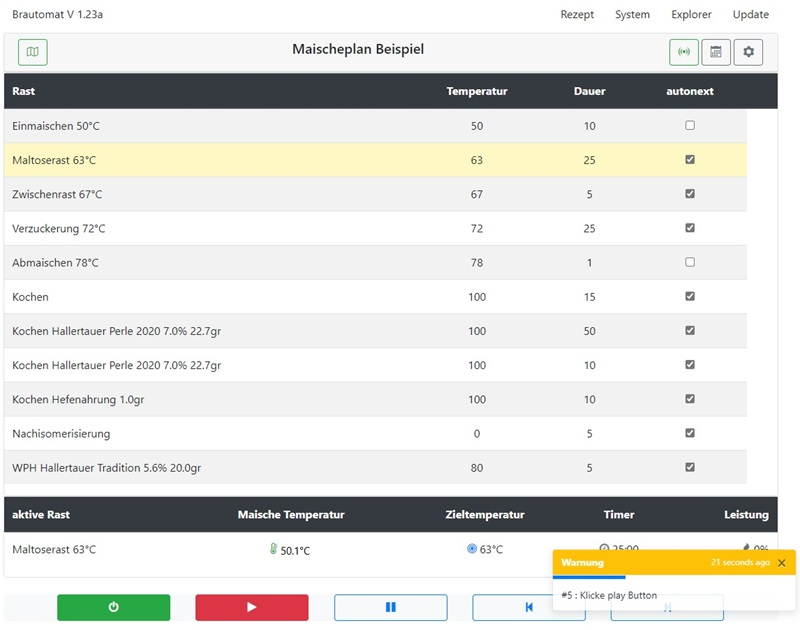
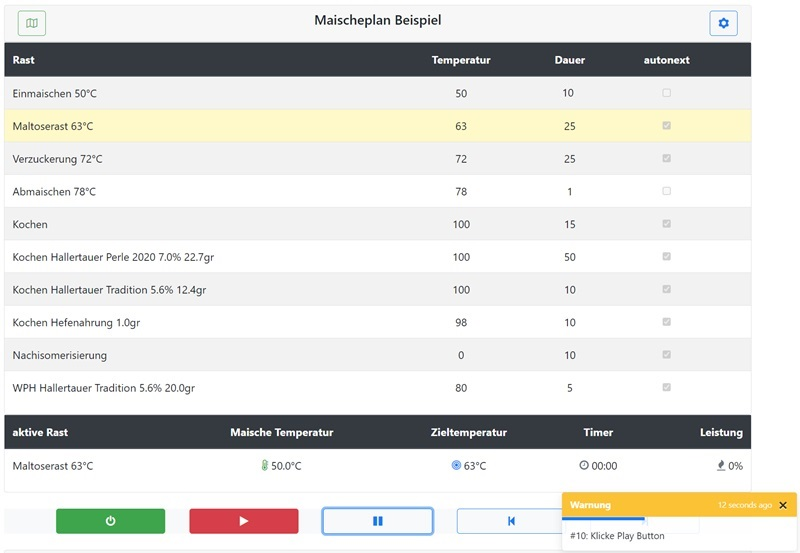
V 1.35

diff --git a/docs/de/Maischeplan/funktionen.md b/docs/de/Maischeplan/funktionen.md
@@ -15,6 +15,8 @@ Zur Orientierung wird zunächst der Aufbau der Tabellenzeilen beschrieben. Eine 
 
 Nach diesen vier Angaben zum Maische-Schritt hat jede Zeile Buttons zum Editieren mit den folgenden Funktionen: (von links nach rechts)
 
+![Maischeplan editieren](/docs/img/brautomat-111.jpg)
+
 * verschiebe diese Zeile eine Position nach oben
 * verschiebe diese Zeile eine Position nach unten
 * editiere diese Zeile
@@ -22,14 +24,18 @@ Nach diesen vier Angaben zum Maische-Schritt hat jede Zeile Buttons zum Editiere
 
 Im Tabellenkopf befinden sich folgende Buttons (von links nach rechts)
 
+![Maischeplan editieren](/docs/img/brautomat-1.jpg)
+
 * neue Zeile: füge einen neuen Maischeschritt an das Ende der Tabelle an
 * Löschen: lösche die gesammte Tabelle (leerer Maischeplan)
 * Neu laden und Exit: dieser Button hat zwei Funktionen
   * Reload: lese das Rezept aus der Datei neu. Änderungen werden nicht gespeichert
   * Exit: verlassen den Editor ohne Speichern
 * Speicher: Maischeplan speichern
-* Einstellungen: Maischeplan Auswahl, IMport, Export und Zeitplaner
-* Collapse: Tabelle ein/ausklappen
+* Database: Maischeplan Auswahl, Import, Export und Maischeplan Zeitplaner
+* Collapse: Maischeplan Tabelle ein- und ausklappen
+
+![Maischeplan editieren](/docs/img/brautomat-11.jpg)
 
 Alle Buttons zum Editieren des Maischeplans werden ausgeblendet, sobald der Brauprozess gestartet wird. Der Collapse-Button zum ein- und ausklappen der Tabelle wird ausgeblendet, sobald der Maischeplan editiert wird.\
 Zusammen mit den Steuerelementen Power, Play, Pause, Prev und Next ergibt sich eine intuitiv zu bedienende Brausteuerung. Der hier dargestellte Maischeplan ist ein Import aus dem kleinenBrauhelfer2. Der Import fügt automatisch die Rasttemperaturen und Rastdauer ein. Bei den Hopfengaben werden automatisch Alphasäure und Menge in Gramm an den Hopfennamen angefügt. Außerdem werden diese Kurzbezeichnungen vorangestellt:
@@ -58,47 +64,50 @@ Die Buttons zum Editieren werden ausgeblendet. Um diese wieder sichtbar zu mache
 
 Wenn der Maischeprozess pausiert ist, wird der Button Pause in der Steuerung rot dargestellt und die Funktionen zum Editieren werden eingelendet. Das Induktionskochfeld wird nicht ausgeschaltet. Es wird weiterhin die Rasttemperatur gehalten. Der Rasttimer wird angehalten.
 
-Anwendungsbeispiel: gegen Ende der 2. Verzuckerung wird über eine Jodprobe festgestellt, dass die Maische noch nicht jodnormal ist und noch Stärke vorhanden ist. Die oben beschriebene Funktion sehr nützlich:
+Anwendungsbeispiel:\
+Am Ende vom Maischeprozess wird über eine Jodprobe festgestellt, dass die Maische noch nicht jodnormal ist und noch Stärke vorhanden ist. Die Rast Verzuckerung 72°C soll verlängert werden:
 
 * Maischeprozess pausieren
-* Rastdauer der 2. Verzuckerung um 5 Minuten vergrößern
-* Maischeprozess fortsetzen
+* Das Stiftsymbbol in der Zeite Verzuckerung 72°C anklicken
+* Rastdauer der 2. Verzuckerung um 5 Minuten verlängern
+* Speichern
+* Pause Button klicken und der Maischeprozess wird mit angepasster Verzuckerung fortgesetzt
 
 ## Funktion und Verwendung von autonext
 
-![Maischeplan](/docs/img/Maischeplan-autonext.jpg)
+![Maischeplan autonext](/docs/img/Maischeplan-autonext.jpg)
 
-Der erste Schritt im Maischeplan mit dem Namen _Einmaischen 50°C_ hat eine Rastdauer von 10 Minuten und ein deaktiviertes _autonext_. Ein deaktiviertes _autonext_ hat folgende Bedeutung: im Bild dargestellt ist die Situation, wenn der Rasttimer die 10 Minuten erreicht hat. Der Play Button wechselt automatisch auf rot. Unten rechts erscheint eine Toast Nachricht "Klicke play Button". Das Induktionskochfeld wird ausgeschaltet. Der Brauprozess wartet auf einen Klick auf den Button Play.
-Der zweite Schritt im Maischeplan mit dem Namen _Maltoserast 63°C_ hat als Rast-Temperatur 63°C und eine Rast-Dauer von 25 Minuten. Der Brautomat steuert in diesem Schritt das Induktionskochfeld zunächst auf 63°C. Sobald diese 63°C erreicht sind, startet der Brautomat den Timer. Ein Rast-Timer ist eine Stoppuhr. Wenn diese Stoppuhr die Rast-Dauer von 25 Minuten erreicht hat, überprüft der Brautomat die Eigenschaft _autonext_. Wenn _autonext_ aktiviert ist, springt der Brautomat automatisch zum nächsten Schritt im Maischeplan. In diesem Bespiel zum Schritt _Zwischenrast_. Die Zwischenrast hat eine Rasttemperatur von 67°C. Automatisch erhöht der Brautomat die Leistung vom Induktionskochfeld, um die Rast-Temperatur zu erreichen. Der Maischeprozess verläuft bei aktiviertem autonext automatisch.
+Der erste Schritt im Maischeplan mit dem Namen _Einmaischen 50°C_ hat eine Rastdauer von 10 Minuten und ein deaktiviertes _autonext_. Im Bild dargestellt ist die Situation, wenn der Rasttimer die 10 Minuten erreicht hat. Der Play Button wechselt automatisch auf rot. Unten rechts erscheint eine Toast Nachricht "Klicke play Button". Das Induktionskochfeld wird ausgeschaltet. Der Brauprozess wartet auf einen Klick auf den Button Play.
 
-![Maischeplan](/docs/img/Maischeplan-autonext2.jpg)
+* am Ende einer Rast mit deaktiviertem _autonext_ wird der Maischeprozess angehalten und die GGM IDS wird ausgeschaltet
+
+Der zweite Schritt im Maischeplan mit dem Namen _Maltoserast 63°C_ hat als Rast-Temperatur 63°C und eine Rast-Dauer von 25 Minuten. Der Brautomat steuert in diesem Schritt das Induktionskochfeld zunächst auf 63°C. Sobald diese 63°C erreicht sind, startet der Brautomat den Timer. Ein Rast-Timer ist eine Stoppuhr. Wenn diese Stoppuhr die Rast-Dauer von 25 Minuten erreicht hat, überprüft der Brautomat die Eigenschaft _autonext_. Wenn _autonext_ aktiviert ist, springt der Brautomat automatisch zum nächsten Schritt im Maischeplan. In diesem Bespiel zum Schritt _Zwischenrast_. Die Zwischenrast hat eine Rasttemperatur von 67°C. Automatisch erhöht der Brautomat die Leistung vom Induktionskochfeld, um die Rast-Temperatur zu erreichen.
+
+* am Ende einer Rast mit aktiviertem _autonext wird der Maischeprozess automatisch fortgesetzt und die GGM IDS bleint eingeschaltet
+
+![Maischeplan autonext](/docs/img/Maischeplan-autonext2.jpg)
 
 Die Eigenschaft _autonext_ im siebten Schritt _Abmaischen 78°C_ ist nicht aktiviert. Wenn der Brautomat auf ein deaktivertes autonext trifft, beendet der Brautomat die aktuelle Rast nach Ablauf der Rast-Dauer und setzt die Leistung vom Induktionskochfeld auf 0% (aus). In diesem Status wird der "Play Button" rot angezeigt. Zum Fortsetzen des Brauvorgangs muss auf den Play Button geklickt werden.
 
-Als aktive Rast wird auf diesem Bild "Kochen" angezeigt. Die aktuelle Leistung wird mit 0% angezeigt und der Play Button ist rot. Dieser Status ist genau dann erreicht, wenn die Rast _Abmaischen 78°C_ beendet ist und der Brautomat auf das Fortsetzen durch eine Aktivität durch den Anwender wartet. Der Maischeprozess verläuft bei deaktiviertem autonext manuell.
+Als aktive Rast wird auf diesem Bild "Kochen" angezeigt. Die aktuelle Leistung wird mit 0% angezeigt und der Play Button ist rot. Dieser Status ist genau dann erreicht, wenn die Rast _Abmaischen 78°C_ beendet ist und der Brautomat auf das Fortsetzen durch eine Aktivität durch den Anwender wartet.
 
-In dem Bild ist wieder die Toast Nachricht "Klicke Play Button" dargestellt. Toasts können optional aktiviert werden und erscheinen mit Ton, sobald ein Schritt beendet oder eine manuelle Aktivität erforderlich ist.
+Während im ersten Beispiel von _autonext_ im Schritt Einmaischen meist direkt der Play Button zum Fortsetzen angeklickt wird, kann im zweiten Beispiel Abmaischen eine längere Zeit für das Läutern und die Läuterruhe vergehen. Der Brautomat wird in dem Zustand "Klicke Play Button" stehen gelassen. Es können in diesem Zustand alle Aktoren verwendet werden.
 
-Im ersten Bild Maischeplan sind das Einmaischen und das Abmaischen mit deaktiviertem autonext dargestellt. Das Einmaischen hat eigentlich keine Rast-Dauer und ist beendet, wenn das Schrot im Hauptgusswasser ist. Der Brauprozess wird dann mit Klick auf den roten Play Button fortgesetzt.
-Das Abmaischen ist meist nach sehr kurzer Zeit (im Bild 1 Minute) beendet. Es folgt die Läuterruhe und das Läutern. Auch hier wird der Brauprozess erst forgesetzt, wenn der Play Button geklickt wird.
-
-_Tipp: bei deaktiviertem autonext am Rastende wird die GGM IDS abgeschaltet. Mit dem Pause Button wird die Rast-Zeit angehalten (Timer). Die GGM IDS bleibt eingeschaltet und hält die aktuelle Temperatur._
-
-Wenn die Funktion _autonext_ aktiviert ist, überprüft der Brautomat forlaufend die aktuelle Ist-Temperatur mit der Rast-Temperatur. Die Eigenschaft "Temperatur delta zum Ziel" gibt an, wie viel Grad Unterschied vorhanden sein darf, um den nächsten Maische-Schritt zu starten. In dem Beispiel Maltoserast 63°C und bei einem "Temperatur delta zum Ziel" von 0.3°C würde der Maischeschritt ab einer Ist-Temperatur von 62.7°C gestartet (bzw. ab 63.3°C).
-
-_Tipp: mit "Temperatur delta zum Ziel" wird ein Temperaturbereich um die Rast-Temperatur angegeben, innerhalb dem der Timer einer Rast gestartet wird._
+_Unterschied autonext und Pause: bei einem deaktiviertem autonext am Rastende wird die GGM IDS abgeschaltet. Mit dem Pause Button wird die Rast-Timer angehalten, aber die GGM IDS bleibt eingeschaltet und der Brautomat regelt die benötigte Leistung der GGM IDS._
 
 ## Sonderfunktion 0°C Rast bei aktiviertem autonext
 
-Eine Sonderfunktion hat die Rast-Temperatur 0°C bei aktivertem autonext: wenn die Rast-Temperatur auf 0°C gesetzt und autonext aktiviert ist, wird der Maischeschritt ohne Temperaturüberprüfung automatisch gestartet. Im folgenden Bild ist die Situation unmittelbar nach dem Würzekochen dargestellt. Die Würze hat zu diesem Zeitpunkt eine Temperatur von ca. 100°C. Das Induktionskochfeld soll abgeschaltet werden und der Timer für die Nachisomerisierung soll direkt gestartet werden:
+Eine Sonderfunktion hat die Rast-Temperatur 0°C bei aktivertem autonext: wenn die Rast-Temperatur auf 0°C gesetzt und autonext aktiviert ist, wird der Maischeschritt ohne Temperaturüberprüfung automatisch gestartet. Im Maischeplan Beispiel ist diese Sonderfunktion nach dem Würzekochen im Schritt _Nachisomerisierung_ dargestellt. Die Würze hat zu diesem Zeitpunkt eine Temperatur von ca. 100°C. Das Induktionskochfeld soll abgeschaltet werden und der Timer für die Nachisomerisierung soll direkt gestartet werden:
 
 ![Sonderfunktion 0°C](/docs/img/Maischeplan-Sonderfunktion.jpg)
 
-Die Sonderfunktion "0°C Rasttemperatur mit aktiviertem autonext" erfüllt genau dieses Anforderung: Ist- und Soll-Temperatur werden ignoriert und der Rast-Timer wird gestartet. Wäre die Rasttemperatur vom Schritt Nachisomerisierung nicht auf 0°C sondern bspw. auf 95°C eingestellt, würde der Rasttimer für den Schritt Nachisomerisierung erst starten, wenn die Temperatur im MaischeSud Kessel von Kochen 100°C auf 95°C abgekühlt ist. Während der Nachisomerisierung sinkt die Temperatur in der Würze. Ggfs. wird auch aktiv gekühlt. Die Sonderfunktion "0°C Rasttemperatur mit aktiviertem autonext" bewirkt, dass das Induktionskochfeld ausgeschaltet bleibt.
+Die Sonderfunktion "0°C Rasttemperatur mit aktiviertem autonext" erfüllt genau dieses Anforderung: Ist- und Soll-Temperatur werden ignoriert und der Rast-Timer wird gestartet. Wäre die Rasttemperatur vom Schritt Nachisomerisierung nicht auf 0°C sondern bspw. auf 95°C eingestellt, würde der Rasttimer für den Schritt Nachisomerisierung erst starten, wenn die Temperatur im MaischeSud Kessel von Kochen 100°C auf 95°C abgekühlt ist. Während der Nachisomerisierung sinkt die Temperatur in der Würze. Ggfs. wird die Würze aktiv gekühlt. Die Sonderfunktion "0°C Rasttemperatur mit aktiviertem autonext" bewirkt, dass das Induktionskochfeld ausgeschaltet bleibt.
+
+_Hintergrund: Wenn die Funktion autonext aktiviert ist, vergleicht der Brautomat fortlaufend die aktuelle Ist-Temperatur mit der Rast-Temperatur. Die Eigenschaft "Temperatur delta zum Ziel" gibt an, wie viel Grad Unterschied vorhanden sein darf, um den nächsten Maische-Schritt automatisch zu starten. Bei einer Rasttemperatur von 63°C und bei einem "Temperatur delta zum Ziel" von 0.3°C würde der Maischeschritt ab einer Ist-Temperatur von 62.7°C bei steigender Temperatur und ab 63.3°C bei sinkender Temperatur gestartet._
 
 ## Sonderfunktion Aktoren Schalten
 
-Eine zweite Sonderfunktion Steuerbefehle für das Induktionskochfeld, den Nachguss und die Aktoren. Die Syntax für den Maischeschritt lautet Aktorname Doppelpunkt Leistung. Dabei kann die entweder ON oder OFF sein oder eine Zahl zweichen 0.100%. Dabei entspricht der Status OFF dem Wert 0% und ON dem Wert 100%. Die Rasttemperatur und die Rastdauer müssen für diese Sonderfunktion auf 0 gesetzt sein. Der Steuerbefehl für das Induktionskochfeld lautet IDS. Der Steuerbefehl für den Nachguss lautet HLT. Für den Nachguss ist zusätzlich der Steuerbefehl Nachguss nutzbar. Der Steuerbefehl für einen Aktor ist der Aktorname.
+Eine zweite Sonderfunktion sind Steuerbefehle für das Induktionskochfeld, den Nachguss und die Aktoren. Die Syntax für den Maischeschritt lautet Aktorname Doppelpunkt Leistung. Dabei kann die entweder ON oder OFF sein oder eine Zahl zweichen 0.100%. Dabei entspricht der Status OFF dem Wert 0% und ON dem Wert 100%. Die Rasttemperatur und die Rastdauer müssen für diese Sonderfunktion auf 0 gesetzt sein. Der Steuerbefehl für das Induktionskochfeld lautet IDS. Der Steuerbefehl für den Nachguss lautet HLT. Für den Nachguss ist zusätzlich der Steuerbefehl Nachguss nutzbar. Der Steuerbefehl für einen Aktor ist der Aktorname.
 
 ![Sonderfunktion Steuerbefehl](/docs/img/Maischeplan-Aktoren.jpg)
 

diff --git a/docs/de/Maischeplan/rez.md b/docs/de/Maischeplan/rez.md
@@ -1,8 +1,10 @@
 # Einstellungen Maischeplan
 
+Der Brautomat bietet eine einfache Verwaltung der Maischepläne. Neben importieren und exportieren kann zwischen gespeicherten Maischeplänen gewechselt werden. Ebenso ist eine Zeitsteuerung möglich.
+
 ## Einstellungen
 
-In den Einstellungen kann der Maischeplan Name festgelegt werden. Aus dem Maischeplan Namen wird der Dateiname abgeleitet. Die Parameter *Gesamte Kochdauer* und *Nachisomerisierungszeit* werden angezeigt, sind aber nciht editierbar. Diese parameter werden beim Rezept Import eingelesen.
+In den Einstellungen kann der Maischeplan Name festgelegt werden. Aus dem Maischeplan Namen wird der Dateiname abgeleitet. Die Parameter *Gesamte Kochdauer* und *Nachisomerisierungszeit* werden angezeigt, sind aber nicht editierbar. Diese parameter werden beim Rezept Import eingelesen.
 
 ## Zeitsteuerung
 
@@ -24,19 +26,19 @@ Der Brautomat kann Braurezepte aus folgenden Quellen importieren:
 * BrewFather
 * Brautomat
 
-Aus einem importiertem Braurezept wird ein Brautomat Maischeplan. Empfohlen wird die Rezeptverwaltung und -entwicklung mit dem kbh2. Der Exportfilter "Brautomat" beinhaltet alle Daten, die zum Brauen benötigt werden. Nur mit dem kbh2 sind Mengenangaben wie bspw. bei Hopfengaben in Gramm oder beim Zubrühen in Liter und erforderlicher Temperatur möglich.
+Aus einem importiertem Braurezept wird ein Brautomat Maischeplan. Empfohlen wird die Rezeptverwaltung und -entwicklung mit dem kbh2. Der Exportfilter "Brautomat" beinhaltet alle Daten, die zum Brauen benötigt werden.
 
 Rezepte aus MaischeMalzundMehr sollten ebenfalls zunächst im kleinenBrauhelfer2 importiert und auf die individuellen Anlagenwerte, Rohstoffe etc. angepasst werden.
 
 Rezepte aus BrewFather müssen die Eigenschaft boilTime (Kochdauer) mit einem ganzzahligen Wert belegt haben. Empfohlen wird auch ein Wert für den Parameter Equipment -> whirlpoolTime. Rastnamen können bei BrewFather einen (nahezu beliebig) langen Fließtext enthalten. Der Text wird auf maximal 50 Buchstaben gekürzt. Brewfather erlaubt Fließkommazahlen und Text als Rastdauer. Die Parameter werden in ganzzahlige Werte gewandelt oder auf 0 gesetzt.
 
-*Hinweis: der ESP8266 hat nur einen kleinen RAM Speicher. Rezepte mit sehr lange Texten, Bildern oder anderen Anhängen können ggfs. nicht eingelesen werden.*
+*Hinweis: die ESP Microcontroller haben einen kleinen RAM Speicher. Rezepte mit sehr lange Texten, Bildern oder anderen Anhängen können ggfs. nicht eingelesen werden. Vor dem Import sollten Bilder und sehr lange Beschreibungen entfernt werden.*
 
 Importierte Rezepte werden im Ordner /Rezepte gespeichtert. Als Dateinamen wird der Rezpetnamen verwendet. Die maximale Dateinamenlänge im Arduino Dateisystem beträgt 31 Zeichen. Leerzeichen und Umlaute werden bei der Speicherung ersetzt.
 
 ## Optionen für den Import
 
-Der Brautomat benötigt einen Step Einmaischen (optional) und einen Step Abmaischen. Insbesondere der Schritt Abmaischen dient mit deaktivertem "autonext" als Trennschritt zwischen Maischen und Kochen. Beim Import kann der Brautomat fehlende Einmaisch- und Abmaischschritte einfügen.
+Der Brautomat benötigt einen Step Einmaischen (optional) und einen Step Abmaischen. Insbesondere der Schritt Abmaischen dient mit deaktivertem "autonext" als Trennschritt zwischen Maischen und Kochen. Beim Import kann der Brautomat fehlende Einmaisch- und Abmaischschritte einfügen. Zusätzlich können fehlende Temperaturen mit Vorgaben belegt werden.
 
 ## Maischeplan Wechseln
 
@@ -44,4 +46,8 @@ Der Brautomat verwaltet Maischepläne im Flash Speicher. Über die Auswahl *Mais
 
 ## Maischeplan Export
 
-Ein Masicheplan kann im JSON Format exportiert werden und jederzeit wiederverwendet werden.
+Ein Maischeplan kann im JSON Format exportiert werden. Zum Wiedereinlesen ist der Import im Format Brautomat zu verwenden.
+
+## Maischeplan löschen
+
+Der ausgewählte Maischeplan wird aus dem Flash Speicher entfernt.

diff --git a/docs/de/SUMMARY.md b/docs/de/SUMMARY.md
@@ -8,7 +8,7 @@
 * [Der Maischeplan](Maischeplan/info.md)
   * [Die Steuerung](Maischeplan/steuerung.md)
   * [Funktionen](Maischeplan/funktionen.md)
-  * [Rezept](Rezept/rez.md)
+  * [Rezept](Maischeplan/rez.md)
 * [AutoTune PID](Autotune-pid/info.md)
   * [AutoTune Prozess](Autotune-pid/atune.md)
   * [AutoTune Schritt für Schritt](Autotune-pid/steps.md)
